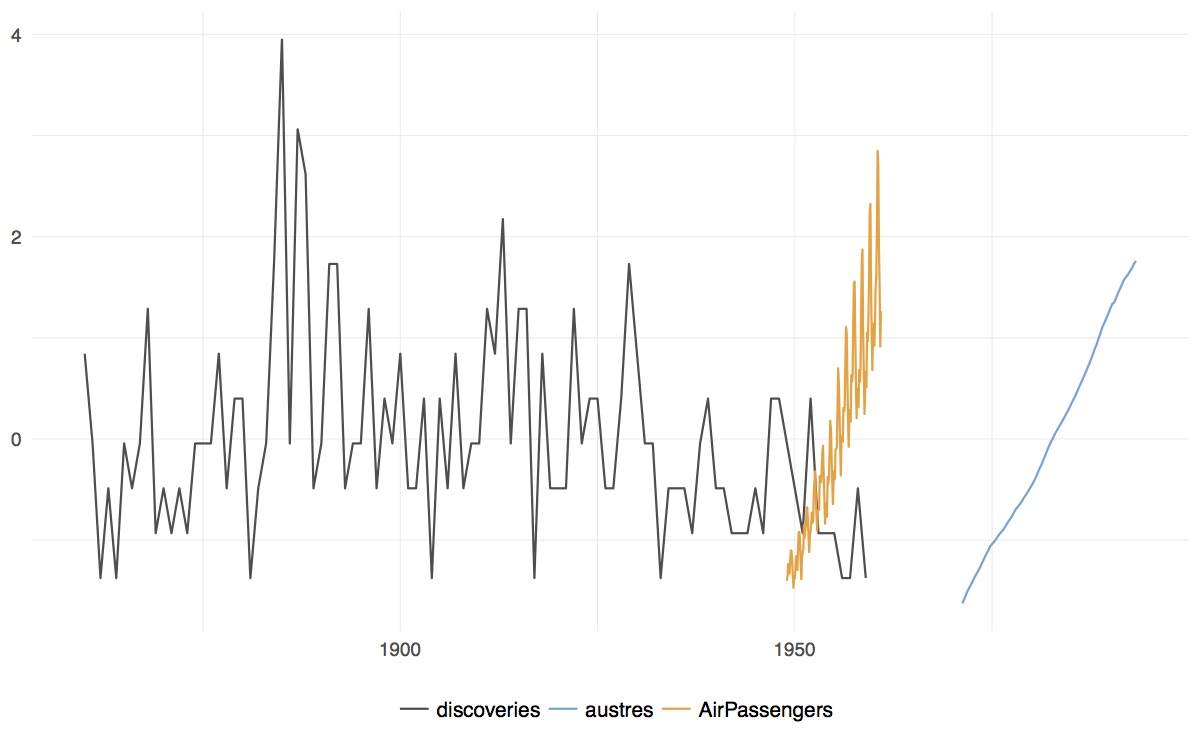
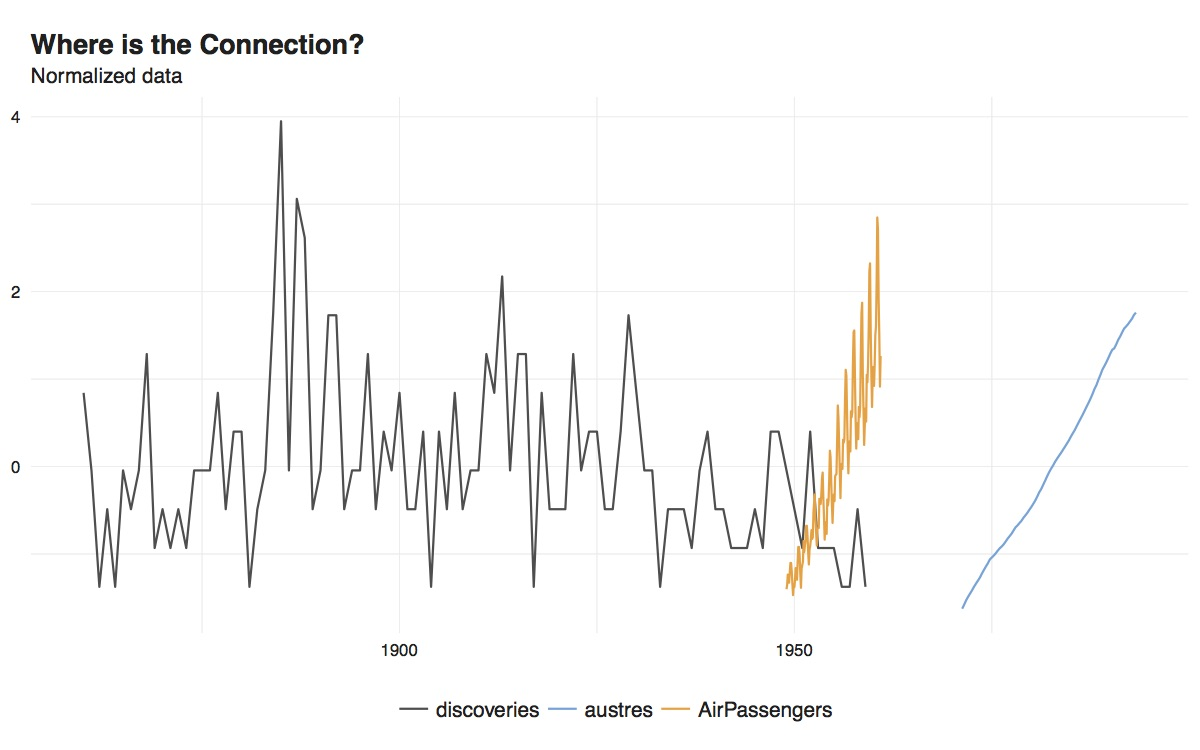
a bug and some style tweaks

diff --git a/README.md b/README.md
@@ -65,7 +65,7 @@ tsrbind(as_xts(AirPassengers), mdeaths)
 ### And plot just about everything
 
 ```
-tsplot(tsscale(tsbind(discoveries, austres, AirPassengers)))
+tsplot(tsscale(tsbind(discoveries, austres, AirPassengers)), title = "Where is the Connection?", subtitle = "Normalized data")
 ```
 ![](https://github.com/christophsax/tsbox/raw/master/inst/docs/graph.jpg)
 
